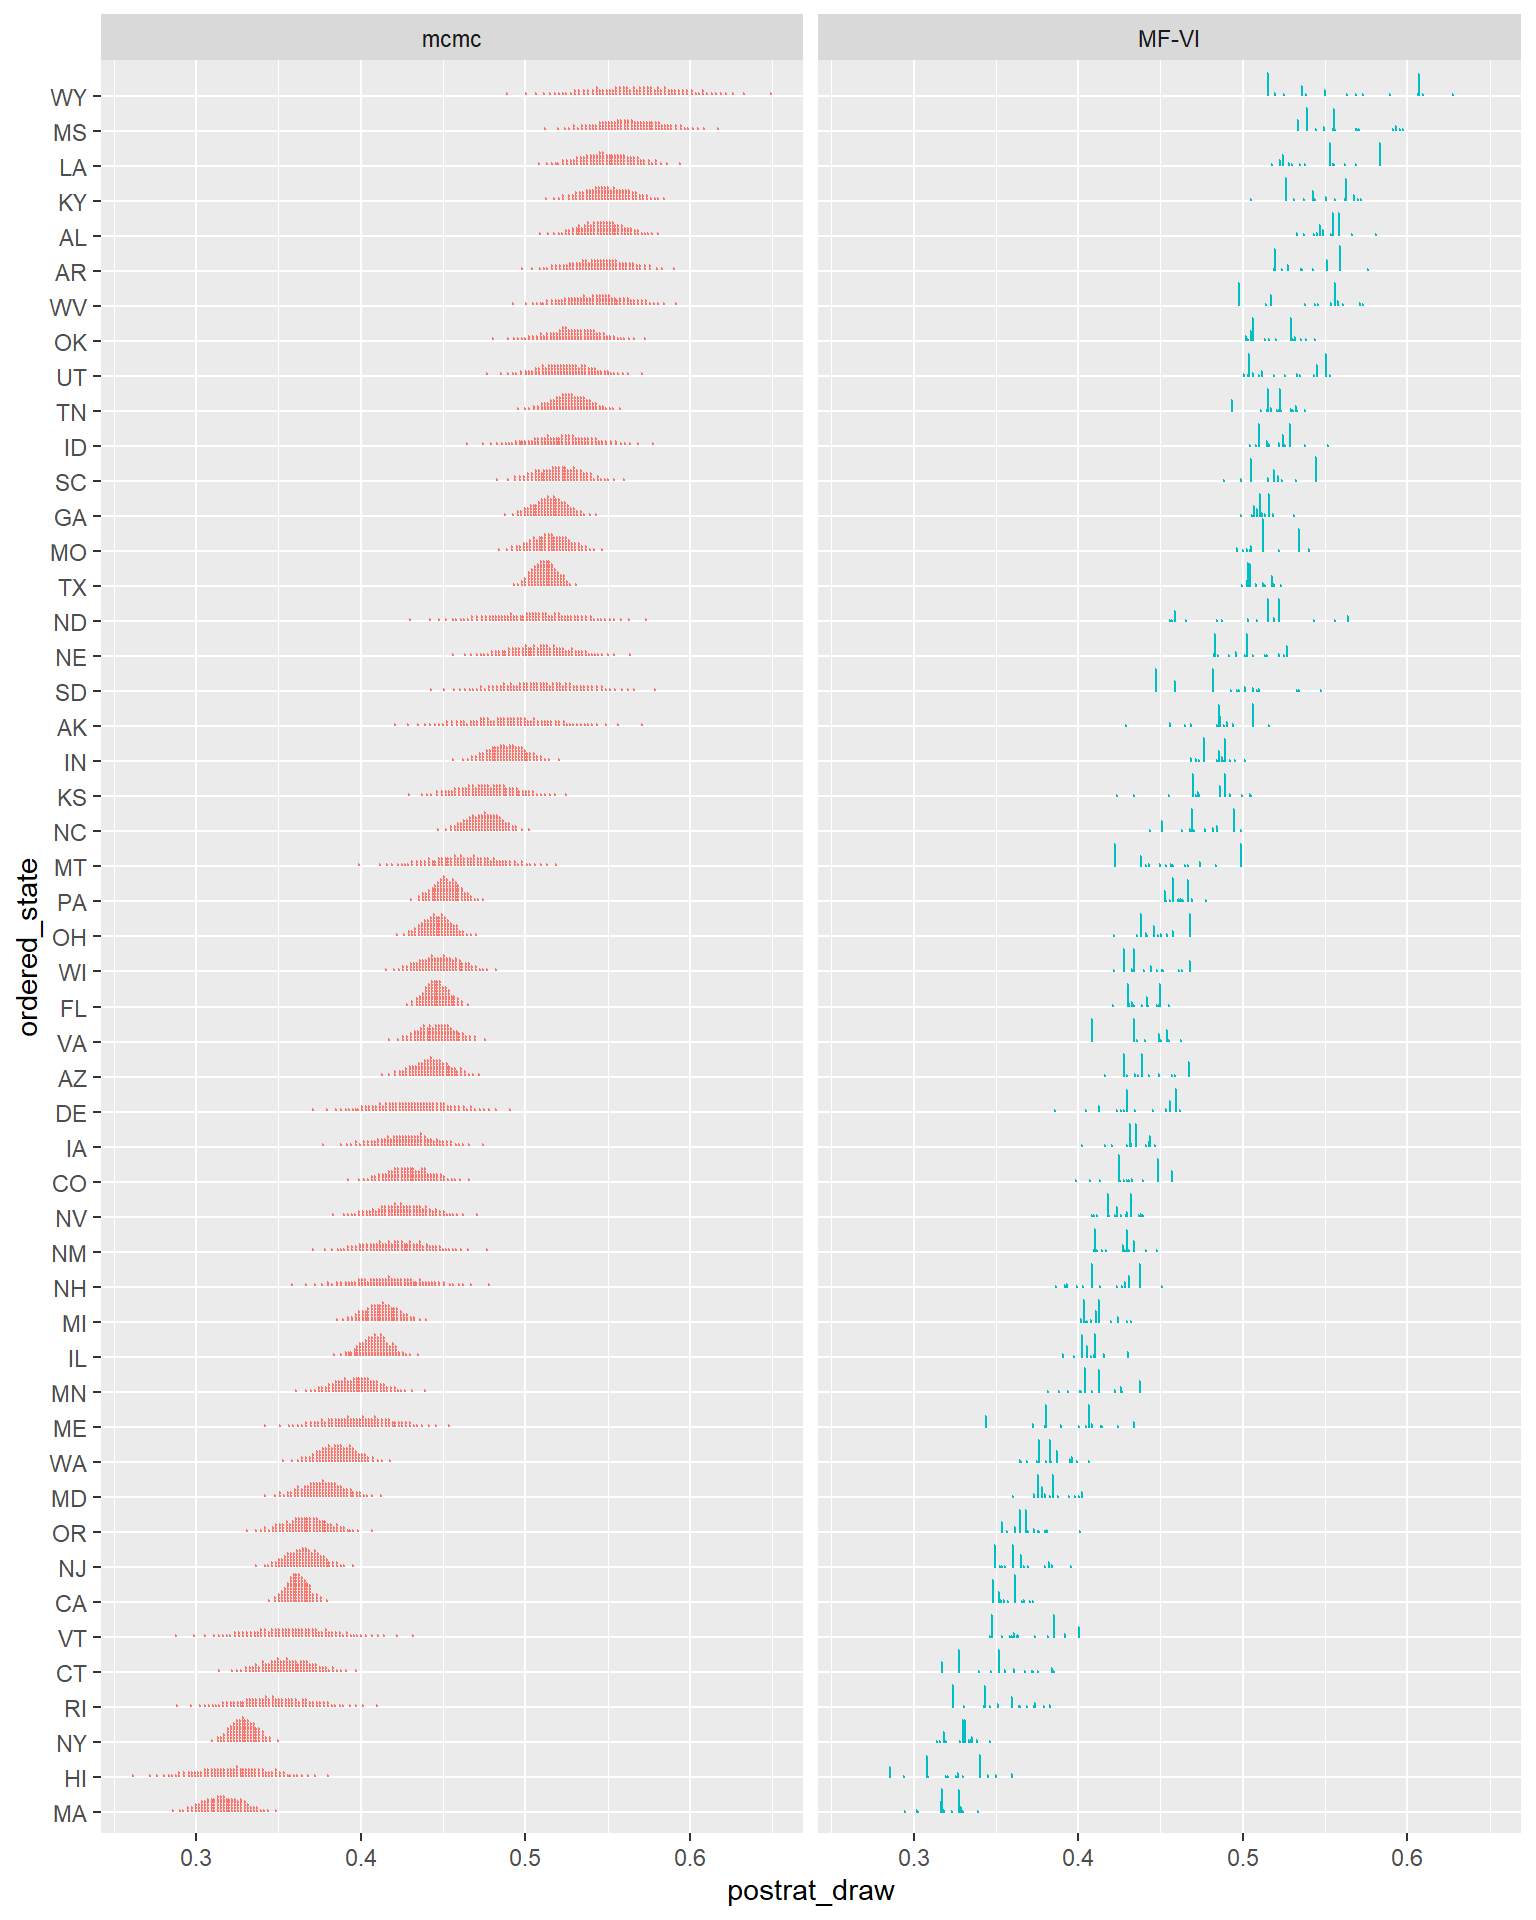
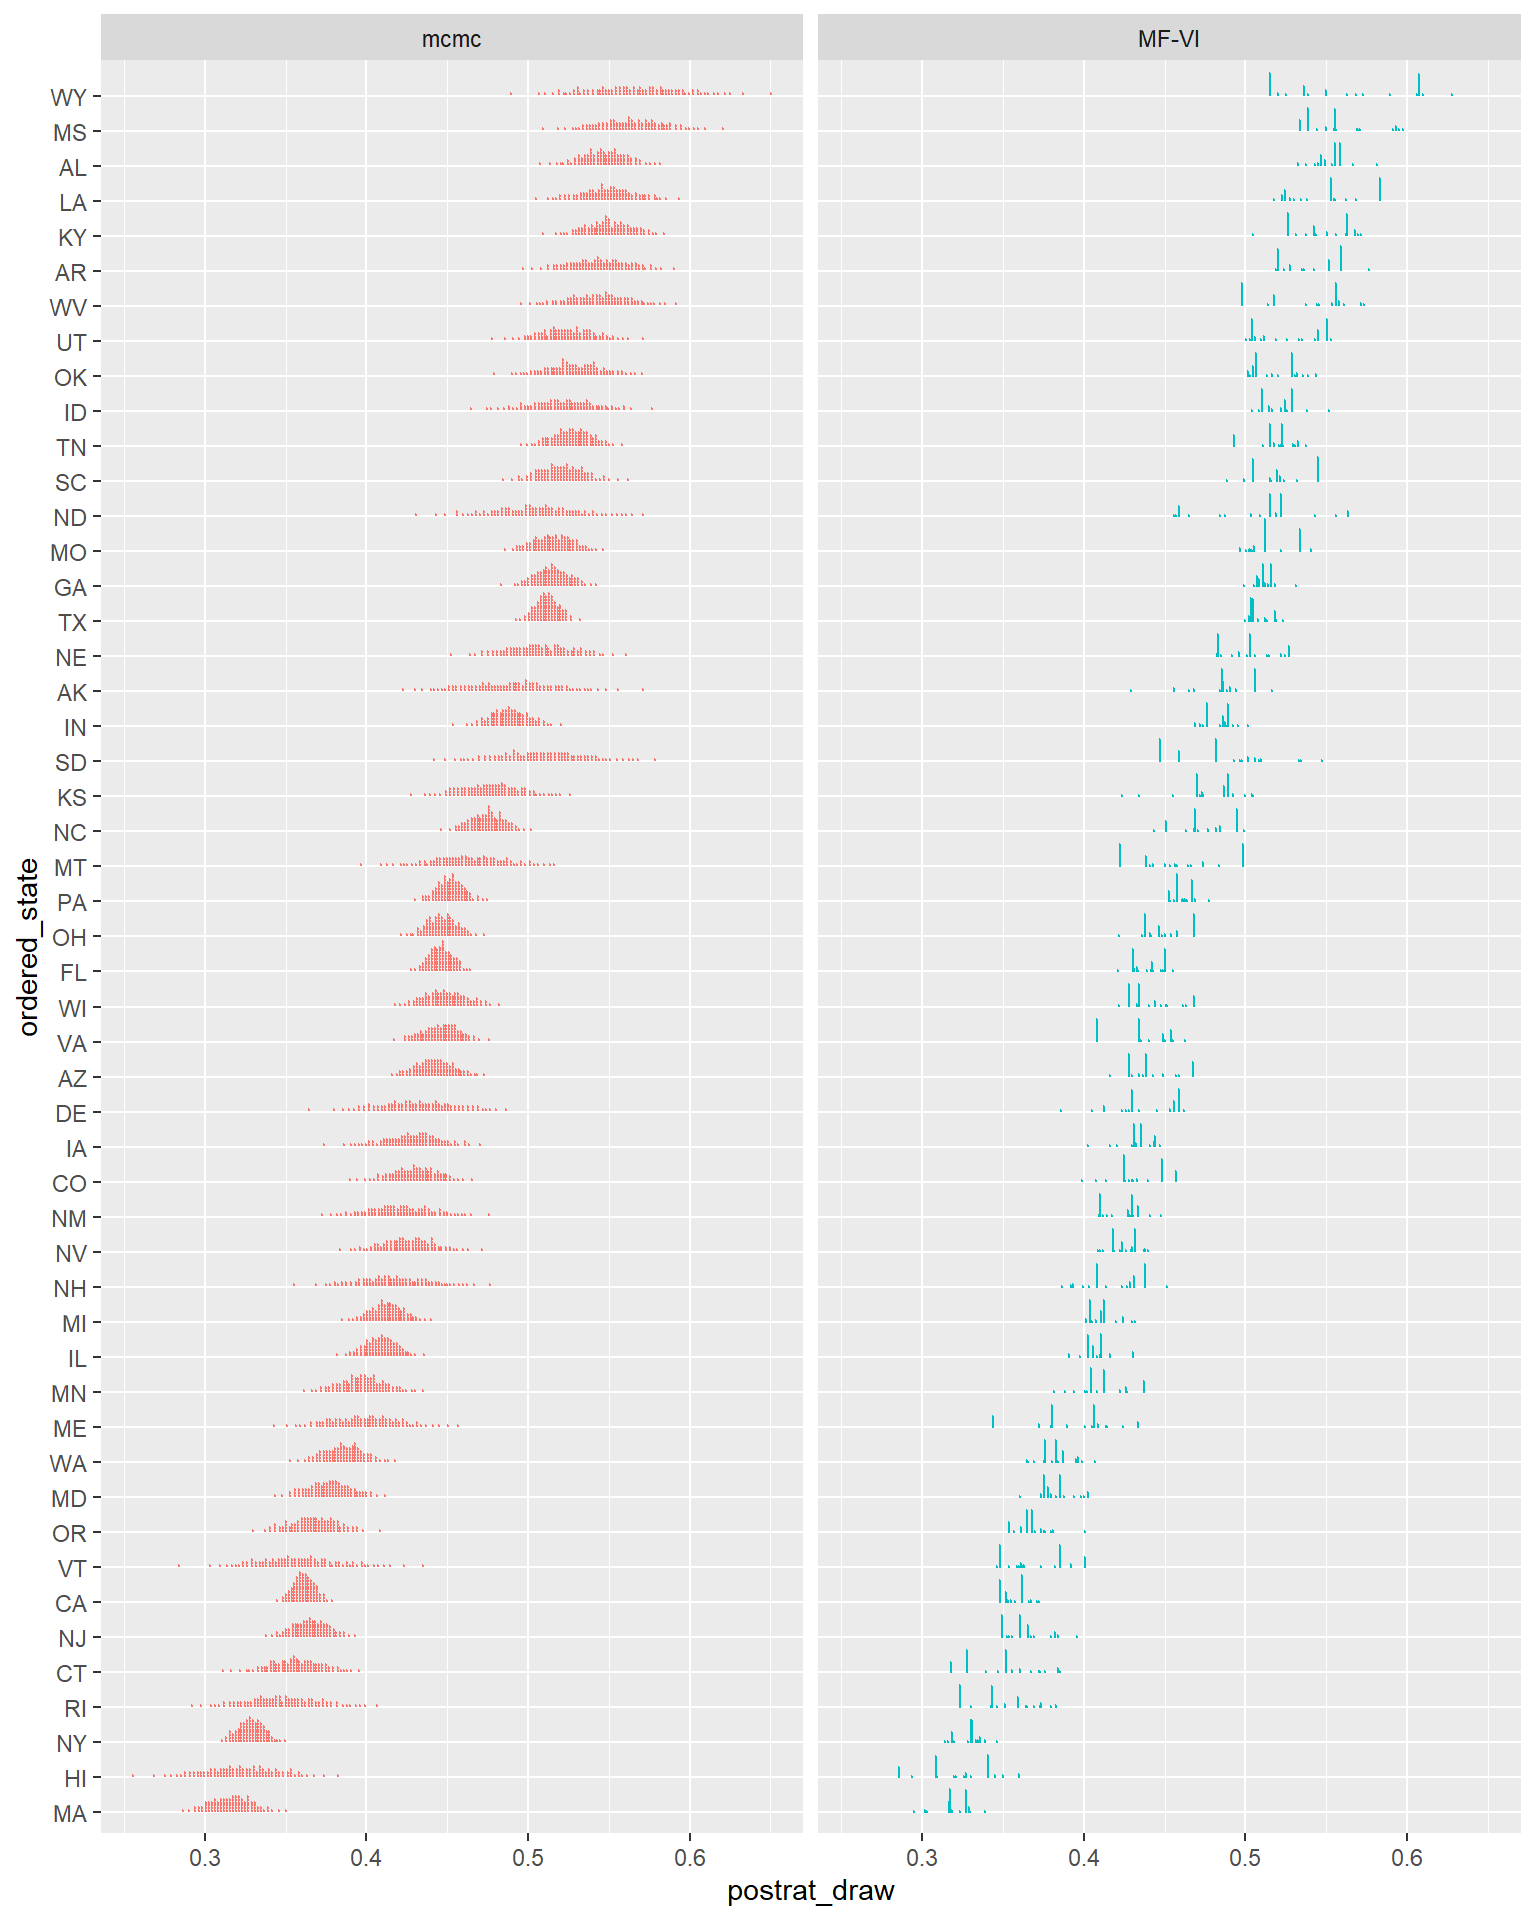
Minor improvements to plots

diff --git a/docs/posts/Variational MRP Pt2/Variational_MRP_pt2.html b/docs/posts/Variational MRP Pt2/Variational_MRP_pt2.html
@@ -307,12 +307,12 @@ One sort of obvious objections to how I’ve set up this series is “Why not ta
 <h1>State Level Estimates</h1>
 <p>What happens if we produce state level estimates, similar to the plot last post comparing MRP to a simple weighted estimate? Note that I’ll steer away from the MRP Case Study example here in a few ways. I’ll use <code>tidybayes</code> for working with the draws (more elegant than their loop based approach), and I’ll use more draws (helps with simulation error in smaller states).</p>
 <div class="cell">
-<div class="sourceCode cell-code" id="cb2"><pre class="sourceCode r code-with-copy"><code class="sourceCode r"><span id="cb2-1"><a href="#cb2-1" aria-hidden="true" tabindex="-1"></a>mcmc_state_level <span class="ot">&lt;-</span> poststrat_df_60k <span class="sc">%&gt;%</span> <span class="fu">add_epred_draws</span>(mcmc_60k)</span>
-<span id="cb2-2"><a href="#cb2-2" aria-hidden="true" tabindex="-1"></a>mfvi_state_level <span class="ot">&lt;-</span> poststrat_df_60k <span class="sc">%&gt;%</span> <span class="fu">add_epred_draws</span>(meanfield_60k)</span>
+<div class="sourceCode cell-code" id="cb2"><pre class="sourceCode r code-with-copy"><code class="sourceCode r"><span id="cb2-1"><a href="#cb2-1" aria-hidden="true" tabindex="-1"></a>mcmc_state_level <span class="ot">&lt;-</span> poststrat_df_60k <span class="sc">%&gt;%</span> <span class="fu">add_epred_draws</span>(mcmc_60k, <span class="at">ndraws =</span> <span class="dv">1000</span>)</span>
+<span id="cb2-2"><a href="#cb2-2" aria-hidden="true" tabindex="-1"></a>mfvi_state_level <span class="ot">&lt;-</span> poststrat_df_60k <span class="sc">%&gt;%</span> <span class="fu">add_epred_draws</span>(meanfield_60k, <span class="at">ndraws =</span> <span class="dv">1000</span>)</span>
 <span id="cb2-3"><a href="#cb2-3" aria-hidden="true" tabindex="-1"></a></span>
 <span id="cb2-4"><a href="#cb2-4" aria-hidden="true" tabindex="-1"></a>mcmc_state_level <span class="sc">%&gt;%</span> <span class="fu">glimpse</span>()</span></code><button title="Copy to Clipboard" class="code-copy-button"><i class="bi"></i></button></pre></div>
 <div class="cell-output cell-output-stdout">
-<pre><code>Rows: 48,000,000
+<pre><code>Rows: 12,000,000
 Columns: 14
 Groups: state, eth, male, age, educ, n, repvote, region, state_proportion, .row [12,000]
 $ state            &lt;chr&gt; "AL", "AL", "AL", "AL", "AL", "AL", "AL", "AL", "AL",…
@@ -328,7 +328,7 @@ $ .row             &lt;int&gt; 1, 1, 1, 1, 1, 1, 1, 1, 1, 1, 1, 1, 1, 1, 1, 1, 1
 $ .chain           &lt;int&gt; NA, NA, NA, NA, NA, NA, NA, NA, NA, NA, NA, NA, NA, N…
 $ .iteration       &lt;int&gt; NA, NA, NA, NA, NA, NA, NA, NA, NA, NA, NA, NA, NA, N…
 $ .draw            &lt;int&gt; 1, 2, 3, 4, 5, 6, 7, 8, 9, 10, 11, 12, 13, 14, 15, 16…
-$ .epred           &lt;dbl&gt; 0.5336533, 0.5153217, 0.5350318, 0.4859690, 0.5187578…</code></pre>
+$ .epred           &lt;dbl&gt; 0.5771322, 0.5189677, 0.5483006, 0.5421404, 0.5417602…</code></pre>
 </div>
 </div>
 <p>If you haven’t worked with <code>tidybayes</code> before, the glimpse above should help give some intuition about the new shape of the data- we’ve take the 12,000 row <code>poststrat_df_60k</code>, and added a row per observation per draw, with the prediction (.epred) and related metadata. This gives 12,000 x 4,000 = 48,000,000 million rows. This really isn’t the most space efficient storage, but it allows for very elegant <code>dplyr</code> style manipulation of results and quick exploration.</p>
@@ -366,6 +366,7 @@ $ .epred           &lt;dbl&gt; 0.5336533, 0.5153217, 0.5350318, 0.4859690, 0.518
 <p><img src="Variational_MRP_pt2_files/figure-html/unnamed-chunk-4-1.png" class="img-fluid" width="768"></p>
 </div>
 </div>
+<p>The MCMC plots look about how you’d expect draws based</p>
 <div class="cell">
 <div class="sourceCode cell-code" id="cb5"><pre class="sourceCode r code-with-copy"><code class="sourceCode r"><span id="cb5-1"><a href="#cb5-1" aria-hidden="true" tabindex="-1"></a>mcmc_state_points <span class="ot">&lt;-</span> mcmc_state_level <span class="sc">%&gt;%</span> </span>
 <span id="cb5-2"><a href="#cb5-2" aria-hidden="true" tabindex="-1"></a>                        <span class="co"># multiply each draw by it's cell's proportion of state N</span></span>
